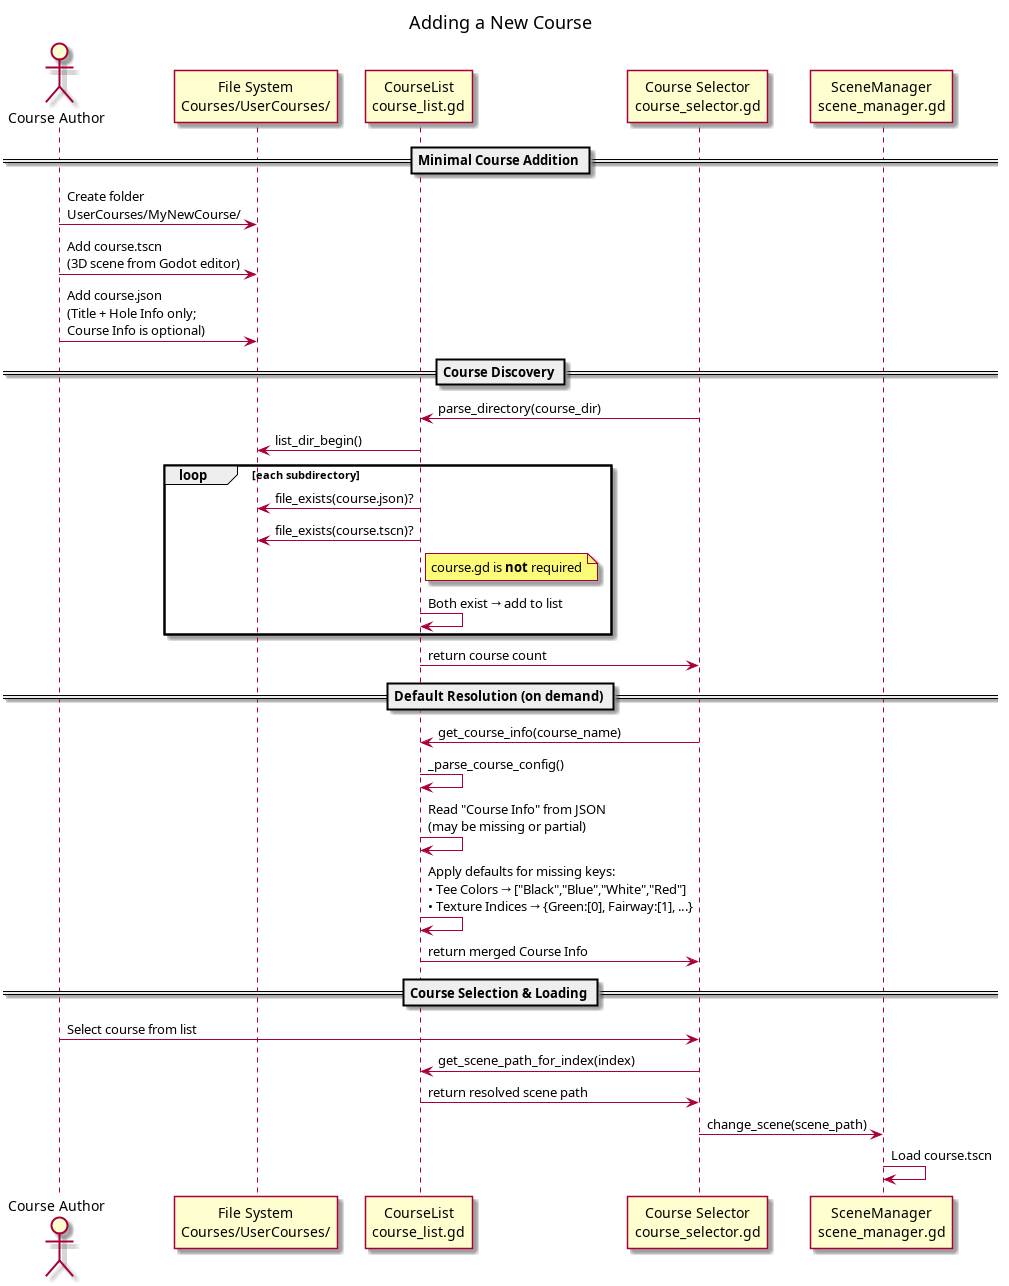
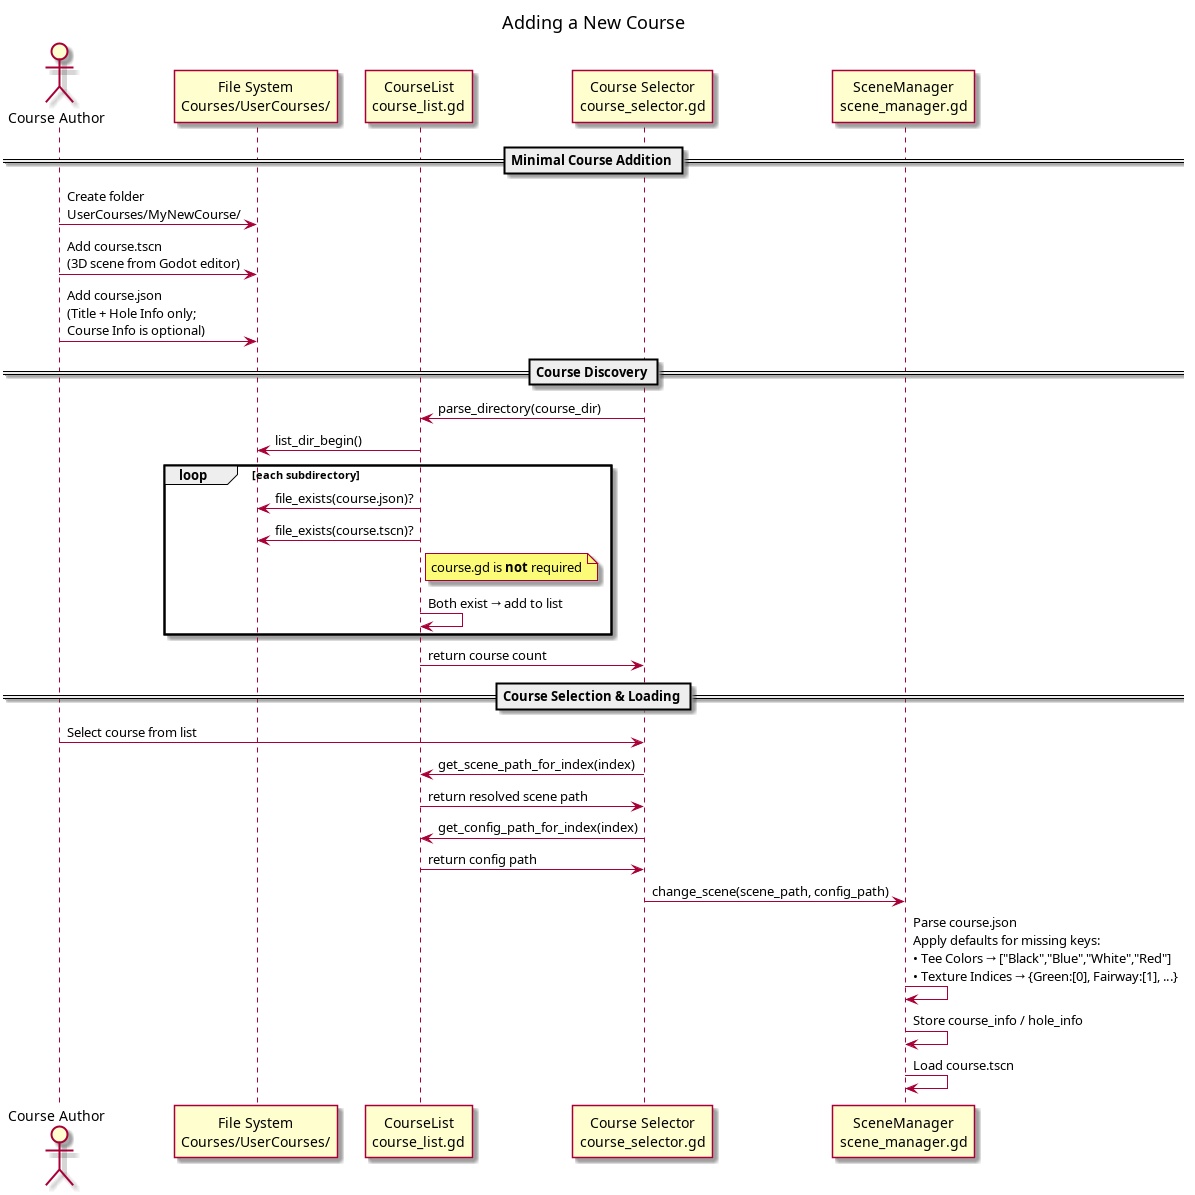
feat: course list to be simplified to just list course data. Course logic management data moved to SceneManager.gd

Changed region(s): [[0.0, 0.0, 1.0, 0.9908], [0.0, 0.9289, 0.0922, 1.0]]

diff --git a/README.md b/README.md
@@ -136,8 +136,8 @@ Download and install the .NET SDK version 8.0 or later.
 - `Courses/Range/`: Range scene, UI, and yardage output.
 - `Resources/`, `UI/`, `Utils/`: Art assets, UI components, and helper scripts.
 
-## Course Loader/FInder Diagram
-The idea is to reduce redundancy and simplify creating new courses. For more technical details, please view `~/assets/images/course_addition.png` 
+## Course Loader/Finder Diagram
+The idea is to reduce redundancy and simplify creating new courses. CourseList discovers available courses and provides scene/config paths; SceneManager parses the `course.json` config, applies defaults, and exposes `course_info`/`hole_info` globally. For more technical details, please view `~/assets/images/course_addition.png`
 
 ![](/assets/images/course_addition_components.png)
 
